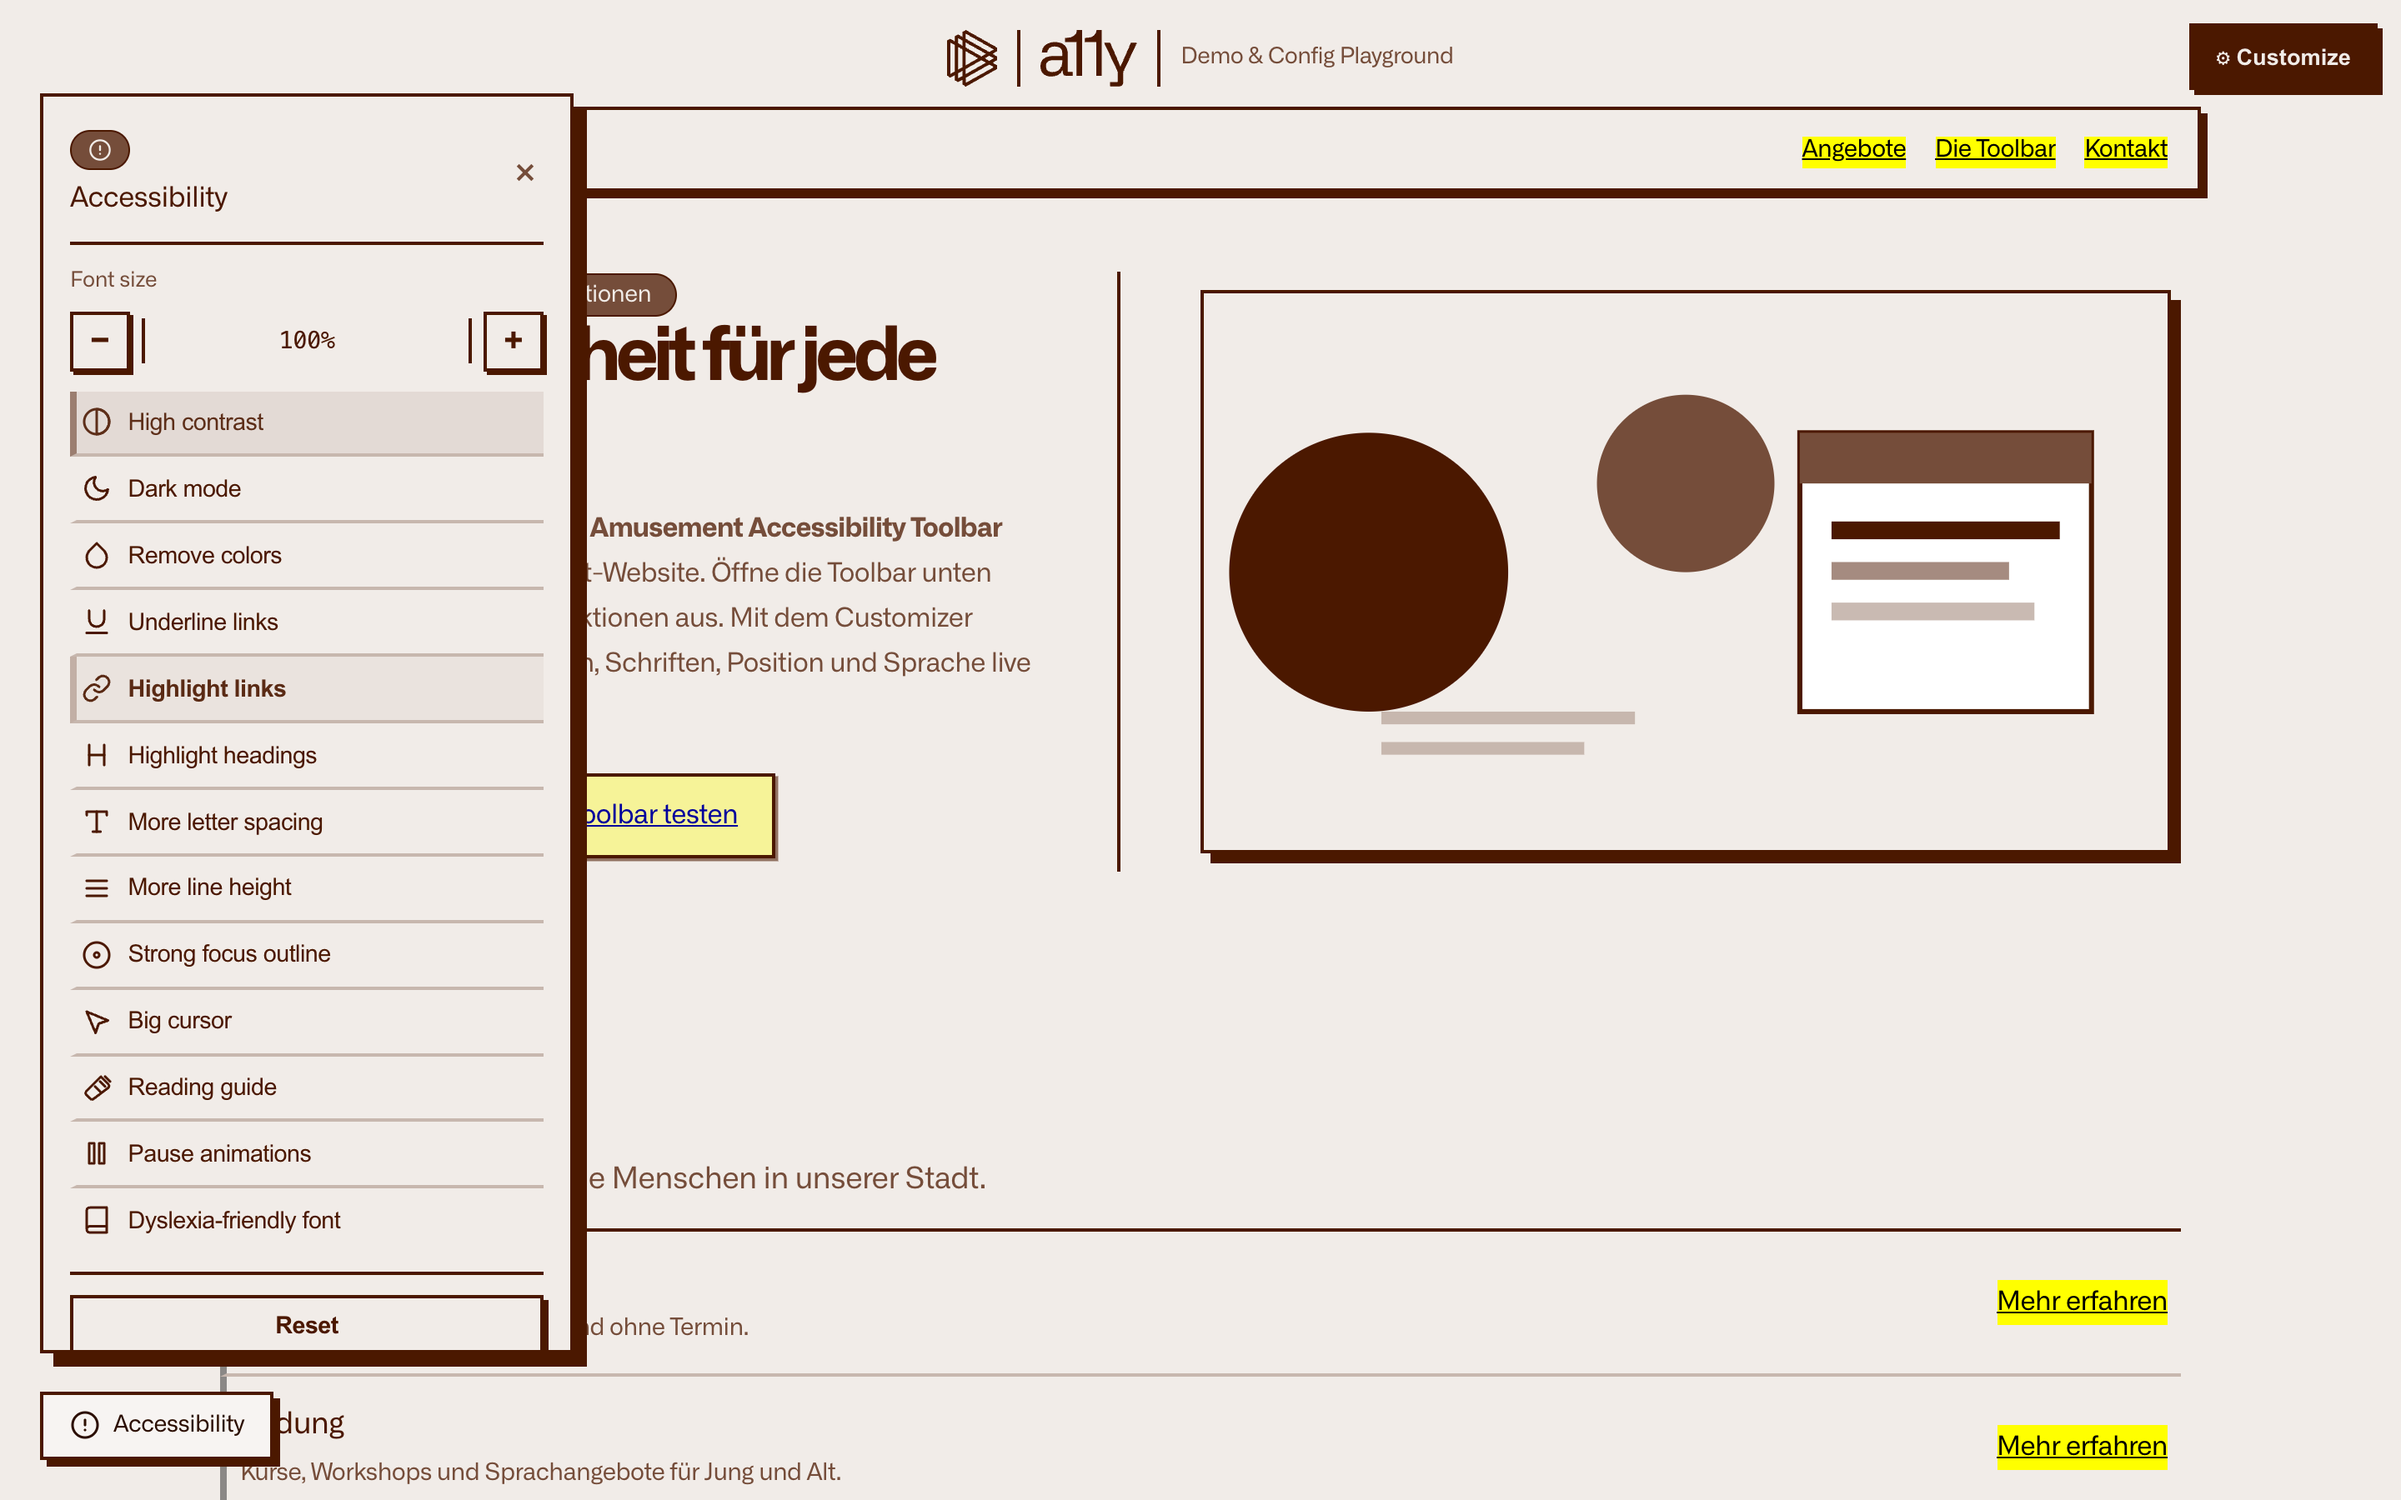
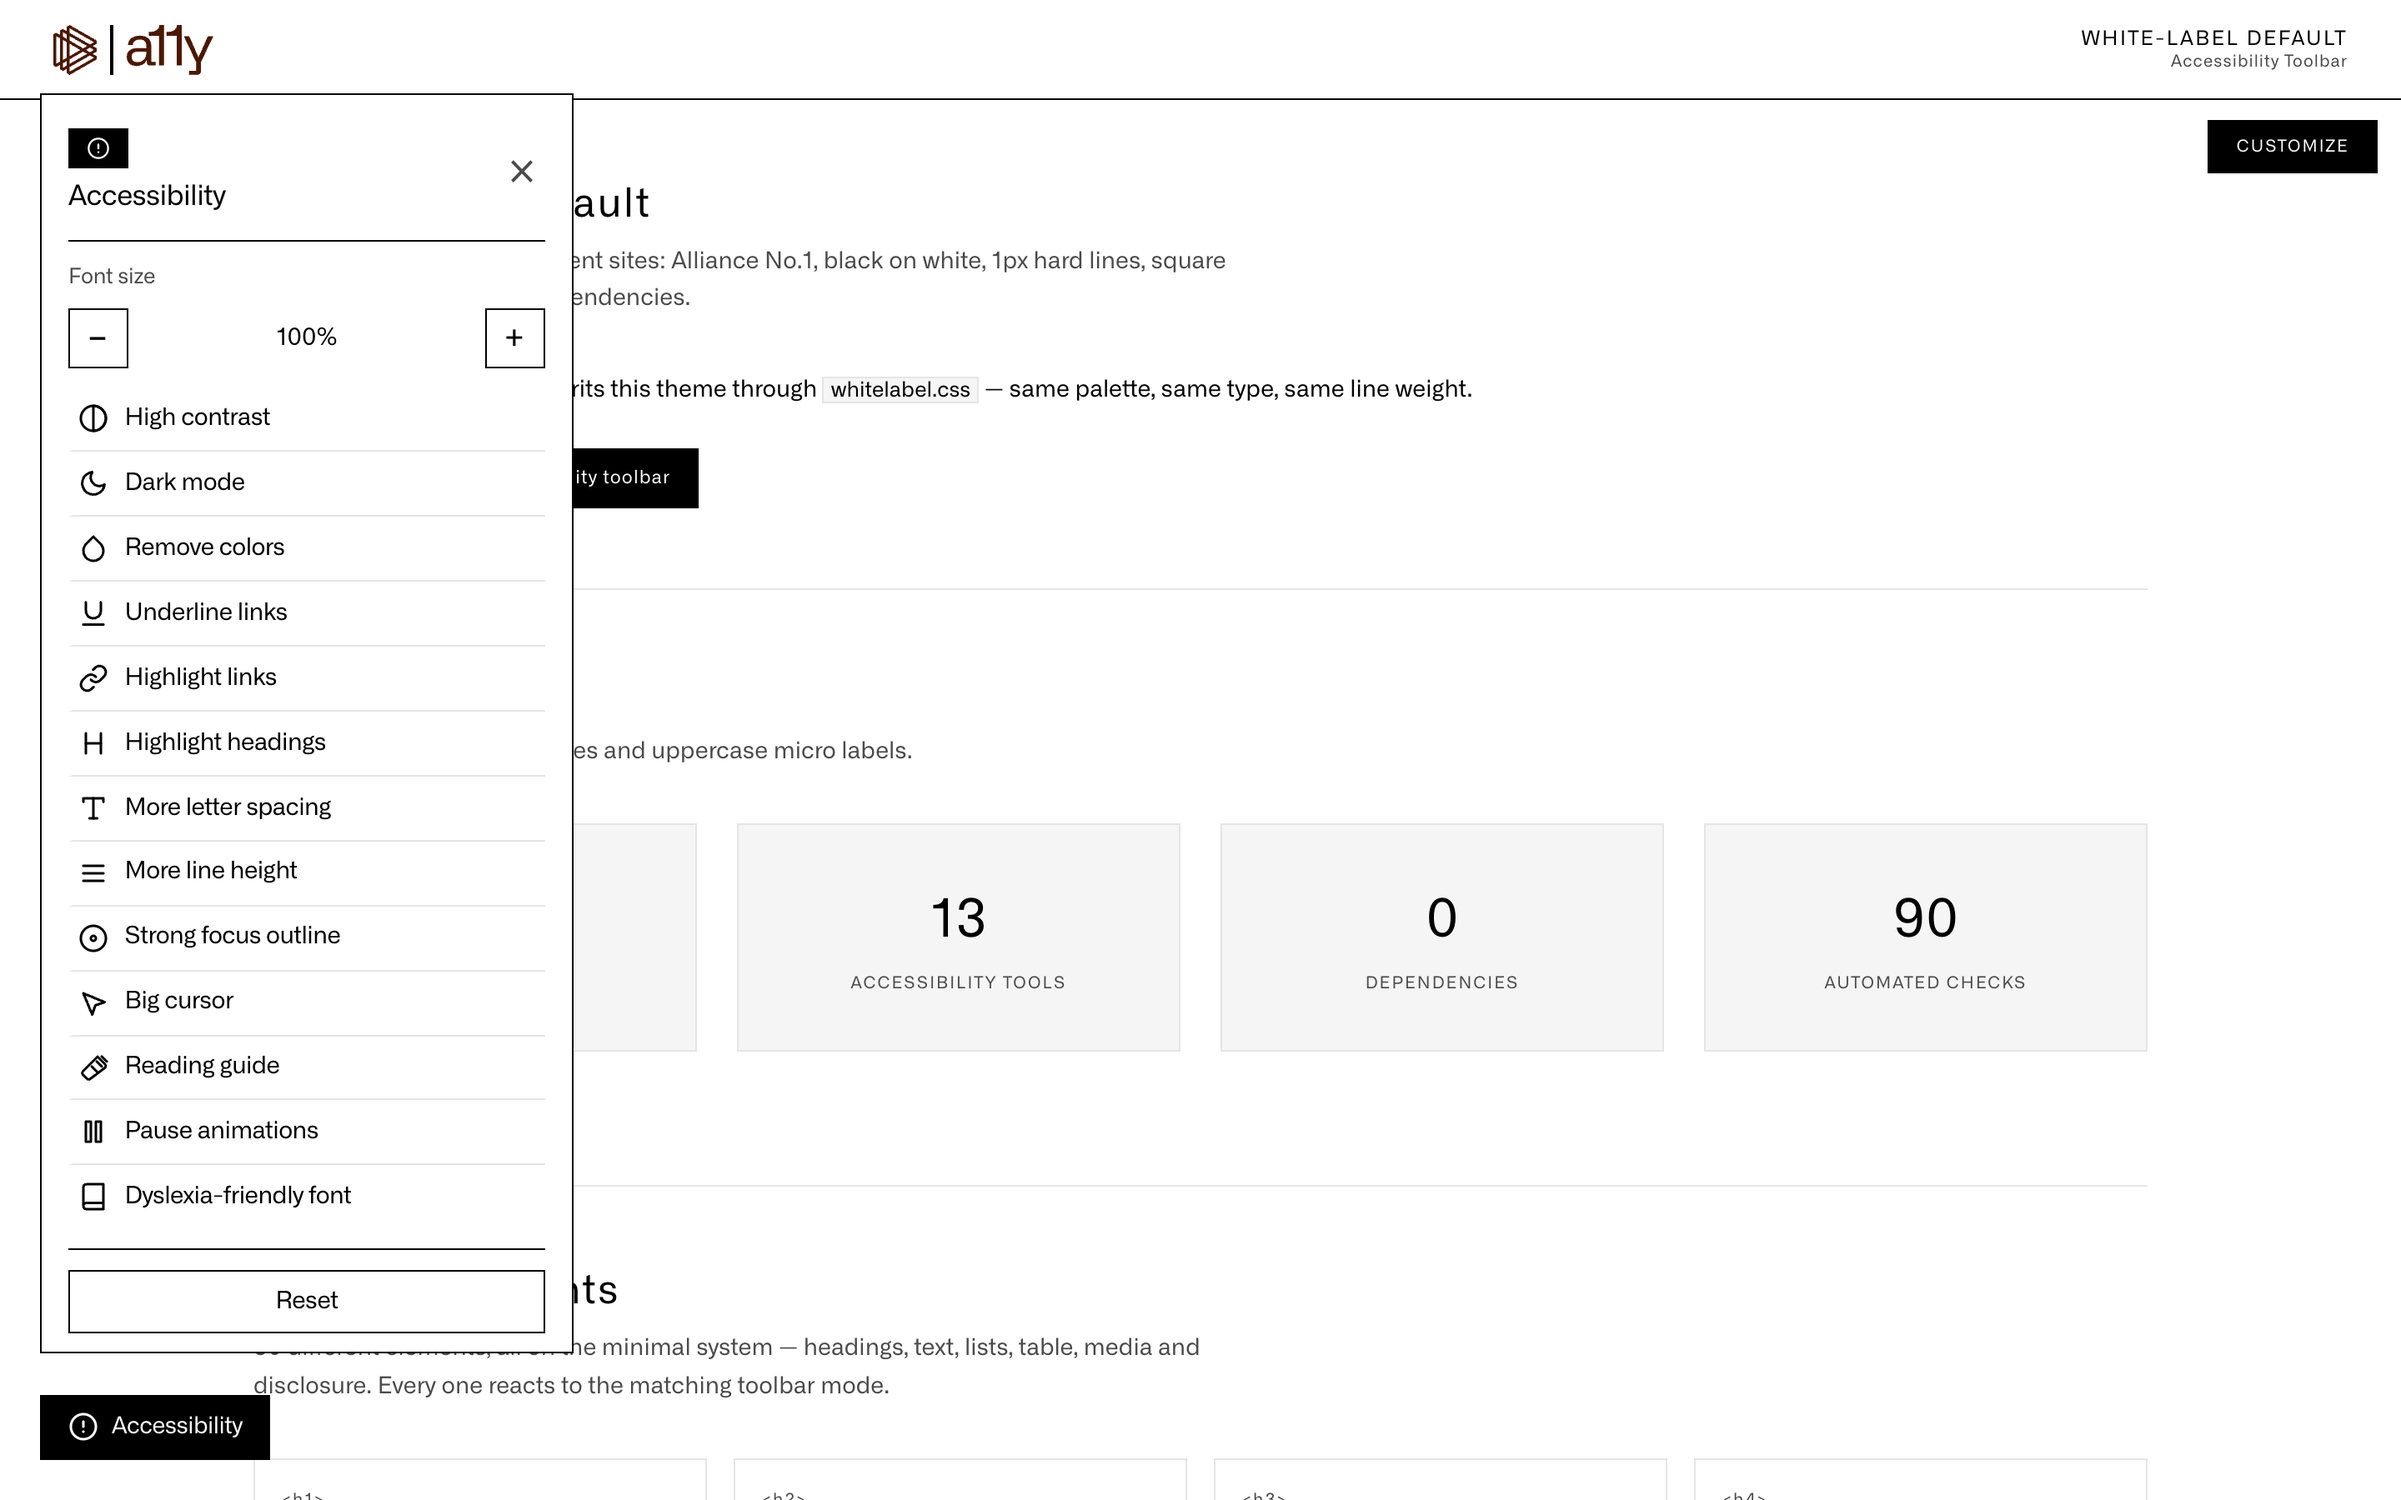
docs(readme): regenerate screenshots on white-label minimal theme + add npm packaging metadata
- tests/screenshots.js: Puppeteer generator (desktop 1440x900@2x, mobile
  390x844@2x) against demo/whitelabel.html, verifies panel geometry and
  white-label computed styles before writing docs/ screenshots
- docs/screenshot-desktop/mobile.png: recaptured on the v1.3.0 white-label
  minimal theme (was stale brutalist brown backdrop)
- package.json: prepublishOnly test guard, unpkg/jsdelivr entry points, screenshots script

diff --git a/tests/screenshots.js b/tests/screenshots.js
@@ -1,0 +1,130 @@
+'use strict';
+
+/**
+ * README screenshot generator (Puppeteer pattern from the test suite).
+ *
+ *   node tests/screenshots.js
+ *
+ * Captures docs/screenshot-desktop.png (1440x900 @2x) and
+ * docs/screenshot-mobile.png (390x844 @2x) of the white-label minimal theme
+ * (demo/whitelabel.html) with the toolbar panel / bottom sheet open.
+ * Verifies panel geometry, white-label computed styles and font before
+ * writing each file. Chrome is auto-detected (or set CHROME_PATH).
+ */
+
+const path = require('path');
+const puppeteer = require('puppeteer-core');
+const { start } = require('./static-server');
+const { findChrome, sleep } = require('./helpers');
+
+const ROOT = path.resolve(__dirname, '..');
+const PAGE = '/demo/whitelabel.html';
+
+function log(check, ok, extra) {
+	console.log((ok ? 'PASS ' : 'FAIL ') + check + (extra ? ' — ' + extra : ''));
+	return ok;
+}
+
+async function openAndVerify(page, base, kind) {
+	await page.goto(base + PAGE, { waitUntil: 'networkidle0' });
+	await page.evaluate(() => document.fonts.ready);
+	await page.click('#a11y-trigger');
+	await sleep(500);
+
+	return page.evaluate((kind) => {
+		const panel = document.getElementById('a11y-toolbar');
+		const trigger = document.getElementById('a11y-trigger');
+		const style = getComputedStyle(panel);
+		const rect = panel.getBoundingClientRect();
+		const triggerRect = trigger.getBoundingClientRect();
+		return {
+			kind,
+			open: panel.getAttribute('aria-hidden') === 'false' && style.visibility === 'visible',
+			rect: { top: rect.top, left: rect.left, right: rect.right, bottom: rect.bottom, width: rect.width, height: rect.height },
+			inViewport: rect.top >= 0 && rect.left >= 0 && rect.right <= innerWidth + 1 && rect.bottom <= innerHeight + 1,
+			triggerInView: triggerRect.bottom <= innerHeight + 1 && triggerRect.right <= innerWidth + 1,
+			surface: style.backgroundColor,
+			text: getComputedStyle(document.querySelector('.a11y-title')).color,
+			shadow: style.boxShadow,
+			radius: style.borderRadius,
+			font: getComputedStyle(document.querySelector('.a11y-title')).fontFamily,
+			toggles: document.querySelectorAll('.a11y-toggle-btn').length,
+			overflowX: document.documentElement.scrollWidth > innerWidth
+		};
+	}, kind);
+}
+
+function verifyState(label, state, kind) {
+	let ok = true;
+	ok = log(kind + ': panel open + visible', state.open, JSON.stringify(state.rect)) && ok;
+	ok = log(kind + ': panel fully inside viewport', state.inViewport) && ok;
+	ok = log(kind + ': trigger inside viewport', state.triggerInView) && ok;
+	ok = log(kind + ': white-label surface (#fff)', state.surface === 'rgb(255, 255, 255)', state.surface) && ok;
+	ok = log(kind + ': white-label text (#000)', state.text === 'rgb(0, 0, 0)', state.text) && ok;
+	ok = log(kind + ': no offset shadow (1px wireframe)', state.shadow === 'none', state.shadow) && ok;
+	ok = log(kind + ': square corners', state.radius === '0px', state.radius) && ok;
+	ok = log(kind + ': Alliance No.1', state.font.includes('Alliance No.1'), state.font) && ok;
+	ok = log(kind + ': 13 toggle rows', state.toggles === 13, String(state.toggles)) && ok;
+	ok = log(kind + ': no horizontal overflow', !state.overflowX) && ok;
+	ok = log(label, true, JSON.stringify(state.rect));
+	return ok;
+}
+
+(async () => {
+	const chromePath = findChrome();
+	if (!chromePath) {
+		console.error('No Chrome/Chromium found. Set CHROME_PATH to a browser binary.');
+		process.exit(1);
+	}
+
+	const { server, port } = await start();
+	const base = 'http://127.0.0.1:' + port;
+	const browser = await puppeteer.launch({
+		executablePath: chromePath,
+		headless: 'new',
+		args: ['--no-sandbox']
+	});
+
+	let ok = true;
+	try {
+		/* ------------------------------------------------ desktop */
+		const page = await browser.newPage();
+		page.on('pageerror', (err) => console.log('PAGE ERROR:', err.message));
+		await page.setViewport({ width: 1440, height: 900, deviceScaleFactor: 2 });
+		const desktop = await openAndVerify(page, base, 'desktop');
+		ok = verifyState('desktop geometry captured', desktop, 'desktop') && ok;
+		if (desktop.open && desktop.inViewport) {
+			await page.screenshot({ path: path.join(ROOT, 'docs', 'screenshot-desktop.png') });
+			console.log('WROTE docs/screenshot-desktop.png (2880x1800)');
+		} else {
+			ok = false;
+		}
+		await page.close();
+
+		/* ------------------------------------------------ mobile */
+		const mobile = await browser.newPage();
+		mobile.on('pageerror', (err) => console.log('PAGE ERROR:', err.message));
+		await mobile.setViewport({ width: 390, height: 844, deviceScaleFactor: 2, isMobile: true, hasTouch: true });
+		const sheet = await openAndVerify(mobile, base, 'mobile');
+		const sheetOk = sheet.rect.width <= 391 && sheet.rect.bottom <= 844 + 1 && sheet.rect.height > 200;
+		ok = log('mobile: bottom sheet geometry', sheetOk, JSON.stringify(sheet.rect)) && ok;
+		ok = verifyState('mobile geometry captured', sheet, 'mobile') && ok;
+		if (sheet.open && sheetOk && sheet.inViewport) {
+			await mobile.screenshot({ path: path.join(ROOT, 'docs', 'screenshot-mobile.png') });
+			console.log('WROTE docs/screenshot-mobile.png (780x1688)');
+		} else {
+			ok = false;
+		}
+		await mobile.close();
+	} finally {
+		await browser.close();
+		server.close();
+	}
+
+	if (!ok) {
+		console.error('\nscreenshots: verification failed — files not written for failing views');
+		process.exitCode = 1;
+	} else {
+		console.log('\nscreenshots: all checks passed');
+	}
+})();
